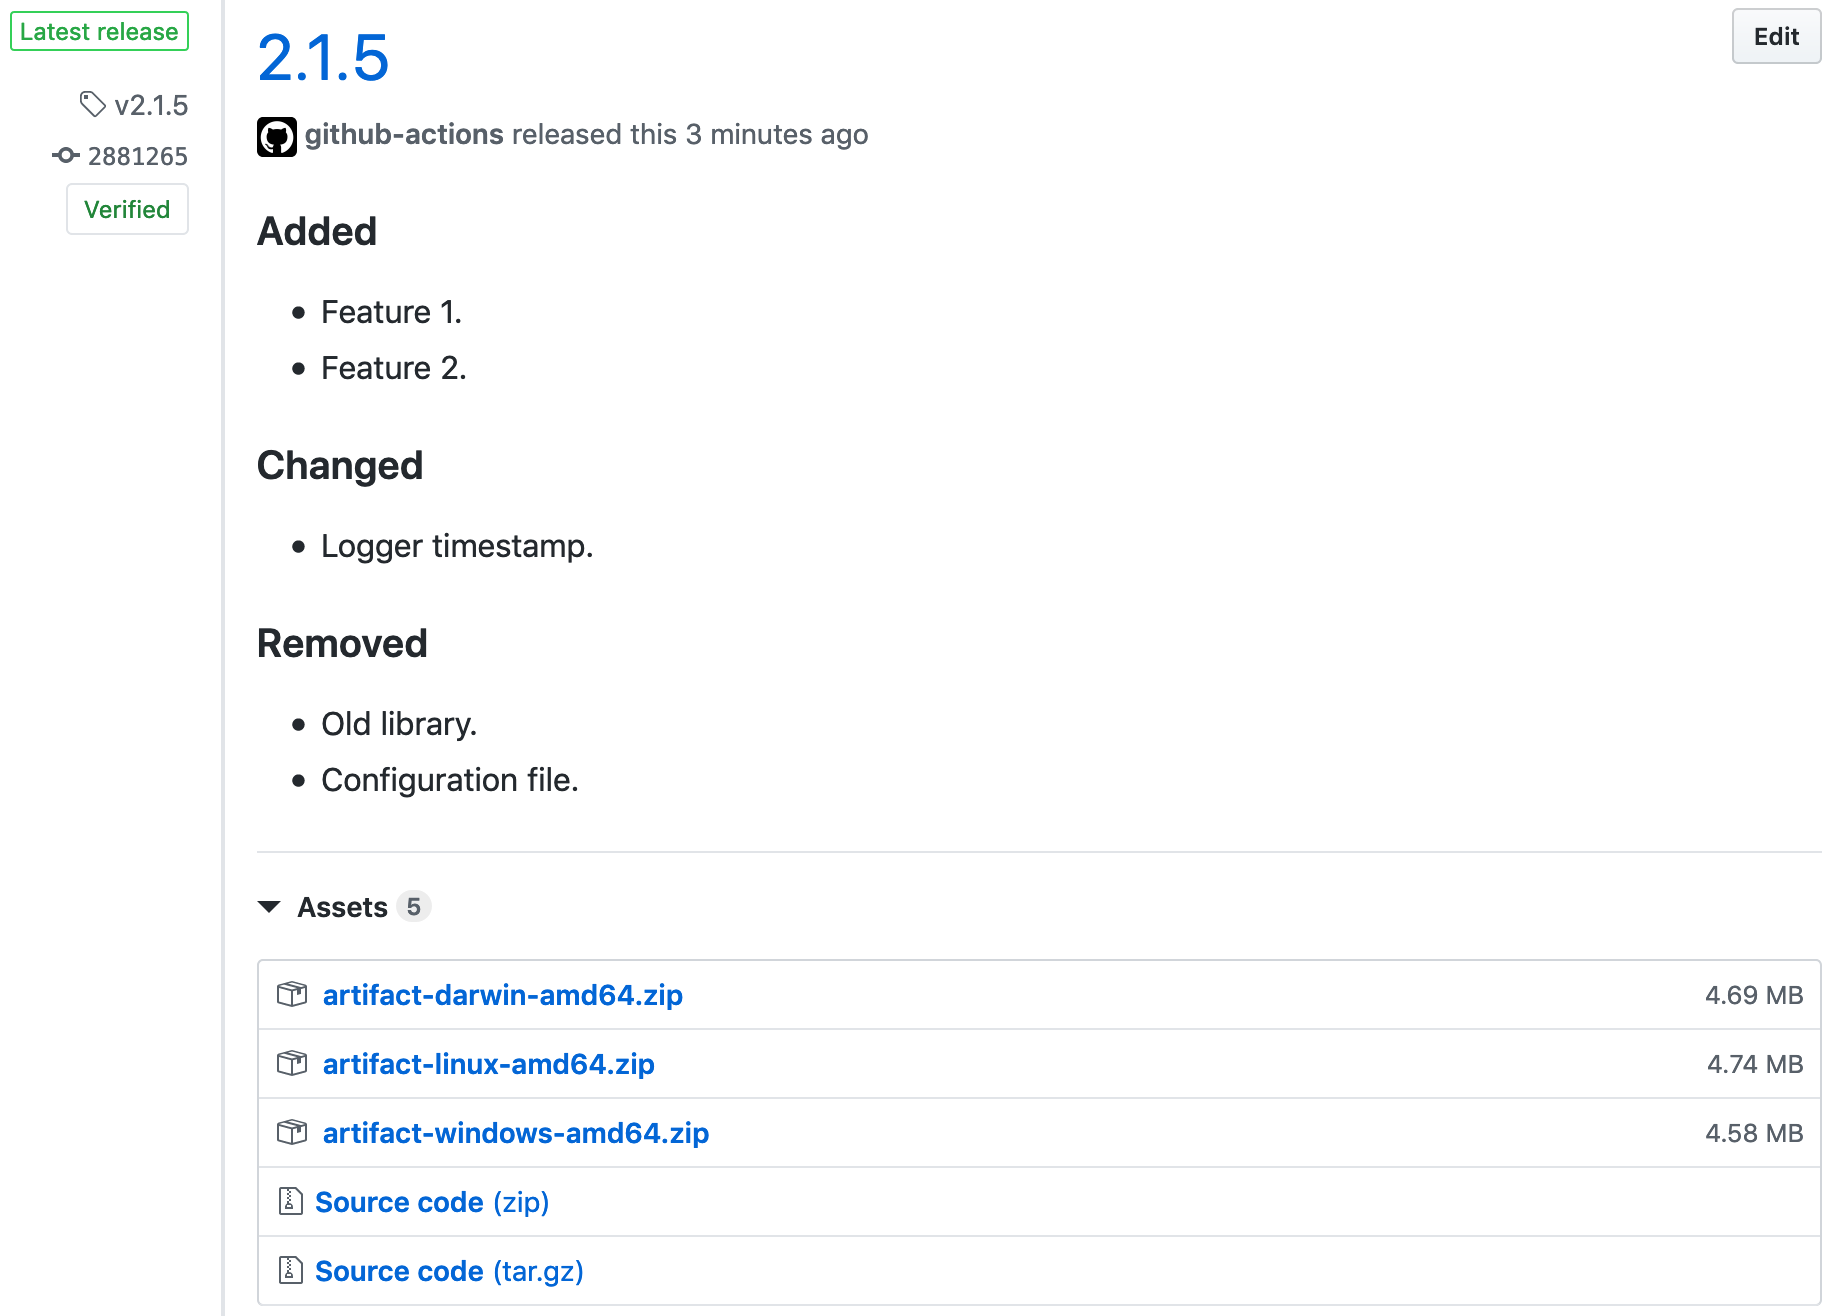
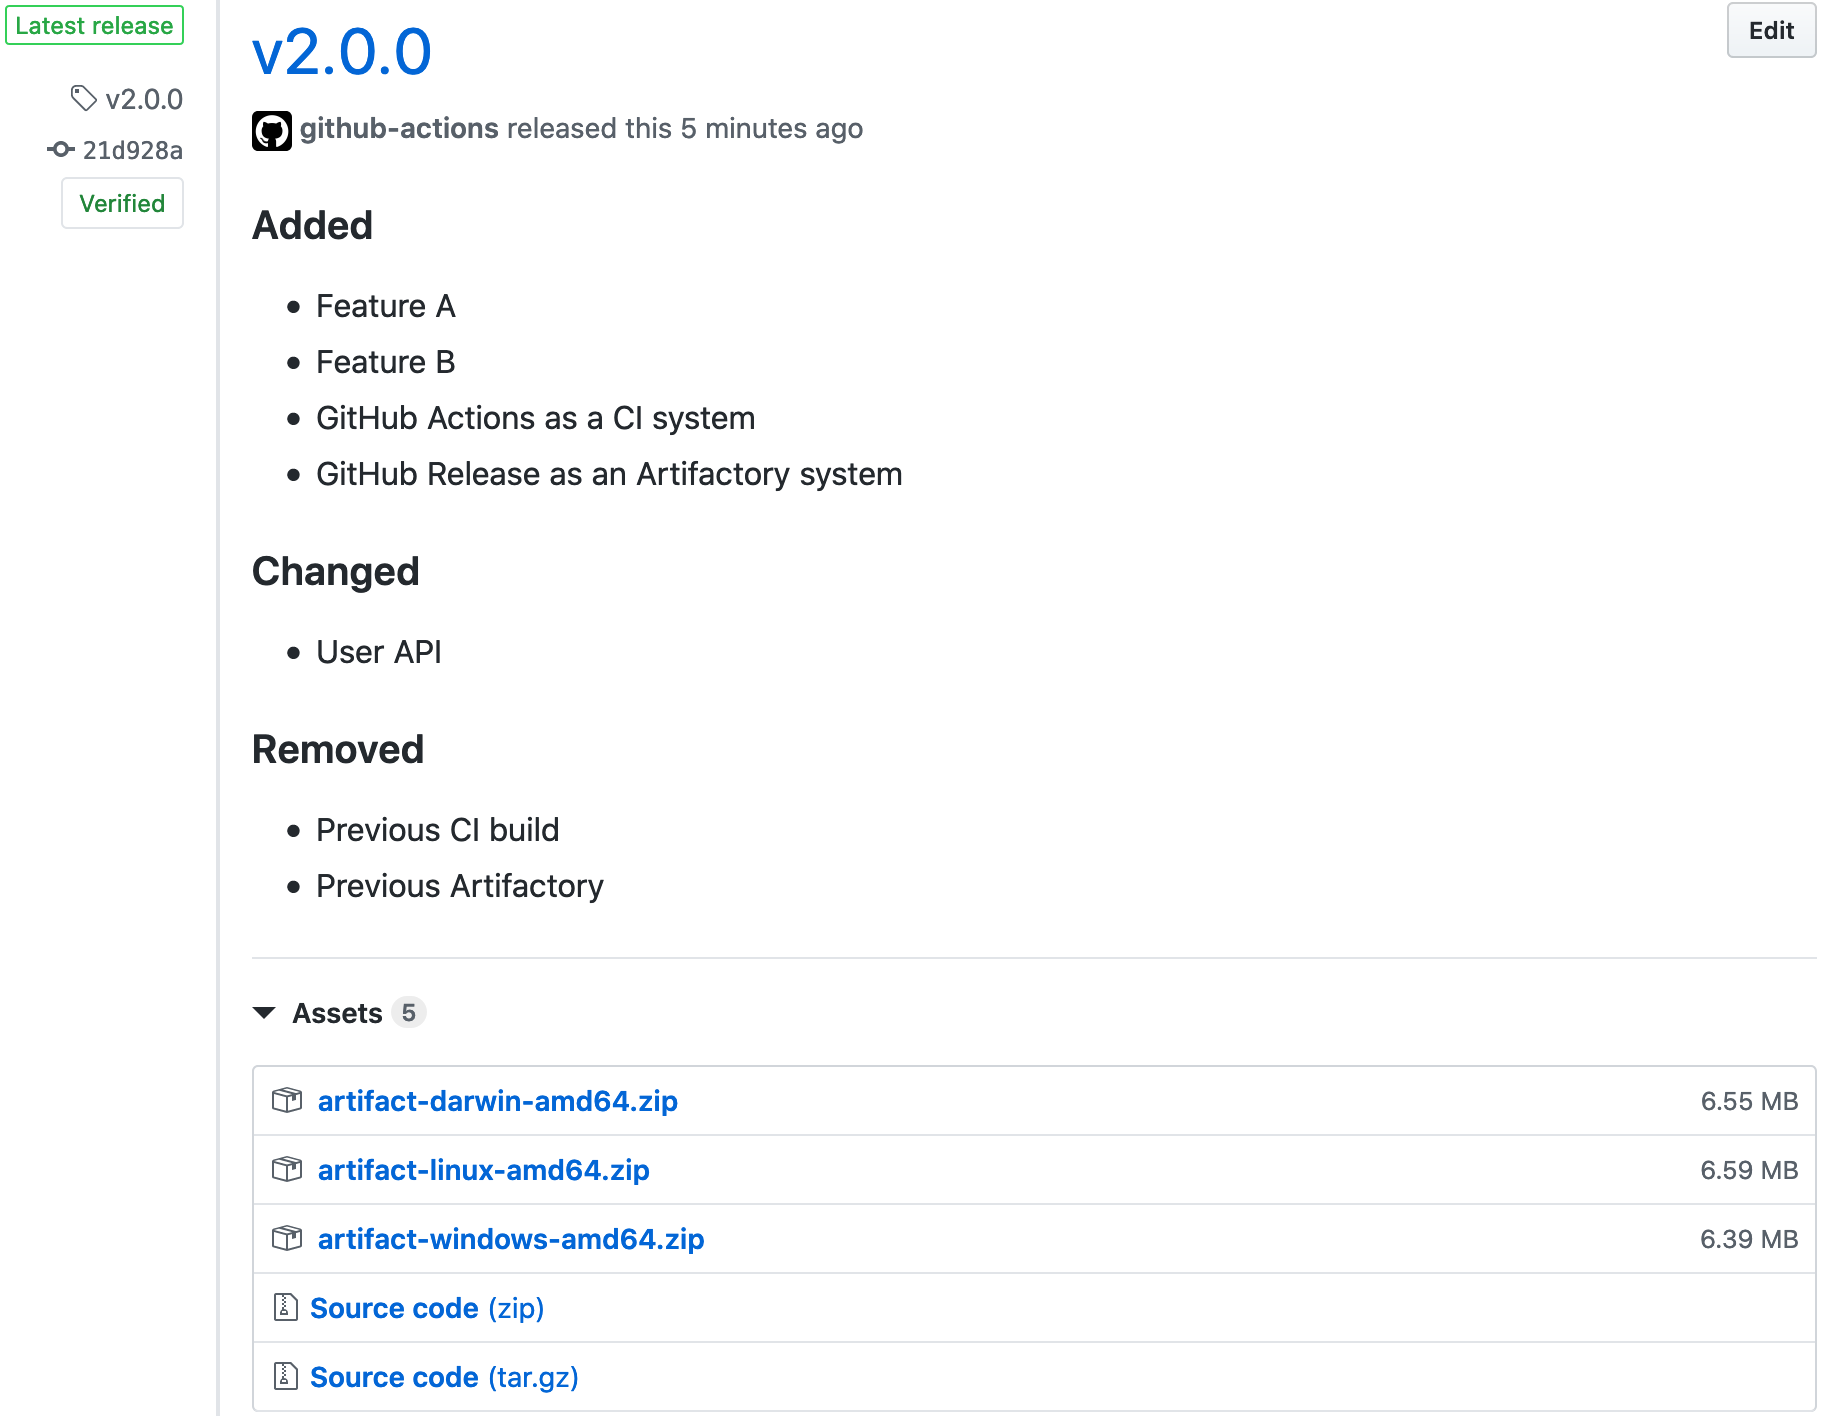
docs: update README.md

Changed region(s): [[0.0, 0.0, 0.4918, 1.0], [0.9221, 0.7477, 1.0, 0.997], [0.9528, 0.0, 1.0, 0.0623]]

diff --git a/README.md b/README.md
@@ -1,5 +1,5 @@
 # git-release
-[![License](https://img.shields.io/github/license/anton-yurchenko/git-release?style=flat-square)](LICENSE.md) [![Release](https://img.shields.io/github/v/release/anton-yurchenko/git-release?style=flat-square)](https://github.com/anton-yurchenko/git-release/releases/latest) [![Docker Build](https://img.shields.io/docker/cloud/build/antonyurchenko/git-release?style=flat-square)](https://hub.docker.com/r/antonyurchenko/git-release) [![Docker Pulls](https://img.shields.io/docker/pulls/antonyurchenko/git-release?style=flat-square)](https://hub.docker.com/r/antonyurchenko/git-release)
+[![Release](https://img.shields.io/github/v/release/anton-yurchenko/git-release)](https://github.com/anton-yurchenko/git-release/releases/latest) [![codecov](https://codecov.io/gh/anton-yurchenko/git-release/branch/master/graph/badge.svg)](https://codecov.io/gh/anton-yurchenko/git-release) [![Go Report Card](https://goreportcard.com/badge/github.com/anton-yurchenko/git-release)](https://goreportcard.com/report/github.com/anton-yurchenko/git-release) [![Docker Build](https://img.shields.io/docker/cloud/build/antonyurchenko/git-release)](https://hub.docker.com/r/antonyurchenko/git-release) [![Docker Pulls](https://img.shields.io/docker/pulls/antonyurchenko/git-release)](https://hub.docker.com/r/antonyurchenko/git-release) [![License](https://img.shields.io/github/license/anton-yurchenko/git-release)](LICENSE.md)
 
 A GitHub Action for creating a GitHub Release with Assets and Changelog whenever a Version Tag is pushed to the project.  
 
@@ -13,37 +13,42 @@ A GitHub Action for creating a GitHub Release with Assets and Changelog whenever
 ## Manual:
 1. Add your changes to **CHANGELOG.md** in the following format (according to [keepachangelog.com](https://keepachangelog.com/en/1.0.0/ "Keep a ChangeLog")):
 ```
-## [2.1.5] - 2019-10-01
+## [2.0.0] - 2019-12-21 
 ### Added
-- Feature 1.
-- Feature 2.
+- Feature A
+- Feature B
+- GitHub Actions as a CI system
+- GitHub Release as an Artifactory system
 
 ### Changed
-- Logger timestamp.
+- User API
 
 ### Removed
-- Old library.
-- Configuration file.
+- Previous CI build
+- Previous Artifactory
 ```
 2. Tag a commit with Version (according to [semver.org](https://semver.org/ "Semantic Versioning")).
-    - Extensions like **alpha/beta/rc/...** are not supported.
+    - Prefixes like **release-/v/...** are supported.
+    - **Postfixes are not supported**.
 3. Push and watch **Git-Release** publishing a Release on GitHub ;-)  
 ![PIC](docs/images/log.png)
 
 ## Configuration:
 1. Change the workflow to be triggered on Tag Push:
-    - Use either `'*'` or `'v*`
+    - Use either `'*'` or a more specific like `'v*'` or `'release-*'`
 ```
 on:
   push:
     tags:
     - 'v*'
 ```
-2. Add Release stage to your workflow:
-    - **Optional**: Provide a list of assets as **args**
-    - **Optional**: `DRAFT_RELEASE: "true"/"false"` - Save release as draft instead of publishing it (default `false`).
-    - **Optional**: `PRE_RELEASE: "true"/"false"` - GitHub will point out that this release is identified as non-production ready (default `false`). 
-    - **Optional**: `CHANGELOG_FILE: "changes.md"` - Changelog filename (default `CHANGELOG.md`).
+2. Add Release stage to your workflow:  
+    - Customize configuration with env.vars:
+        - Provide a list of assets as **args**
+        - `DRAFT_RELEASE: "true"` - Save release as draft instead of publishing it (default `false`).
+        - `PRE_RELEASE: "true"` - GitHub will point out that this release is identified as non-production ready (default `false`). 
+        - `CHANGELOG_FILE: "changes.md"` - Changelog filename (default `CHANGELOG.md`).
+        - `ALLOW_EMPTY_CHANGELOG: "true"` - Allow publishing a release without changelog (default `false`).
 ```
     - name: Release
       uses: docker://antonyurchenko/git-release:latest
@@ -54,13 +59,13 @@ on:
         CHANGELOG_FILE: "CHANGELOG.md"
       with:
         args: |
-          build/release/artifact-darwin-amd64.zip
-          build/release/artifact-linux-amd64.zip
-          build/release/artifact-windows-amd64.zip
+          build/release/darwin-amd64.zip
+          build/release/linux-amd64.zip
+          build/release/windows-amd64.zip
 ```
 
 ## Remarks:
-- This action is automatically built at Docker Hub, and tagged with `latest / v1 / v1.0 / v1.0.0`. You may lock to a certain version instead of using **latest**. (*Recommended to lock against a major version, for example* `v1`).
+- This action is automatically built at Docker Hub, and tagged with `latest / v2 / v2.0 / v2.0.0`. You may lock to a certain version instead of using **latest**. (*Recommended to lock against a major version, for example* `v2`).
 - Instead of using pre-built image, you may build it during the execution of your flow by changing `docker://antonyurchenko/git-release:latest` to `anton-yurchenko/git-release@master`
 
 ## License

diff --git a/CHANGELOG.md b/CHANGELOG.md
@@ -1,9 +1,29 @@
+## [2.0.0] - 2019-12-28
+This is a major release as most of the code was refactored and some behavior was changed, for example "Tag version is set as a release title".
+
+### Fixed
+- Artifact files not found caused panic - all files now being validated before release creation
+- Custom changelog file now being validated before release creation
+- Arguments parsing fixed
+
+### Added
+- Unit testing
+- Docker image now built from scratch, resulting in decreased size 139.73MB -> 2.43MB, improving action overall speed.
+- **app** package
+- `ALLOW_EMPTY_CHANGELOG` env.var to allow publishing a release without changelog (default **false**)
+- Artifacts (provided as arguments) can now be separated by one of: `new line '\n', pipe '|', space ' ', comma ','`
+
+### Changed
+- **local** package renamed to **repository**
+- **remote** package splitted into 2 packages: **asset**, **release**
+- Tag version is set as a release title
+
 ## [1.1.0] - 2019-12-21
 ### Added
 - [PR #3](https://github.com/anton-yurchenko/git-release/pull/3) Allow any prefix to semver tag. (*Thanks to [Taylor Becker](https://github.com/tajobe) for the PR*)
 
 ### Fixed
-- PreRelease overwriting Draft configuration. (*Thanks to [Taylor Becker](https://github.com/tajobe) for the reporting an issue*)
+- PreRelease overwriting Draft configuration. (*Thanks to [Taylor Becker](https://github.com/tajobe) for reporting an issue*)
 
 ## [1.0.0] - 2019-10-01
 - First stable release.
